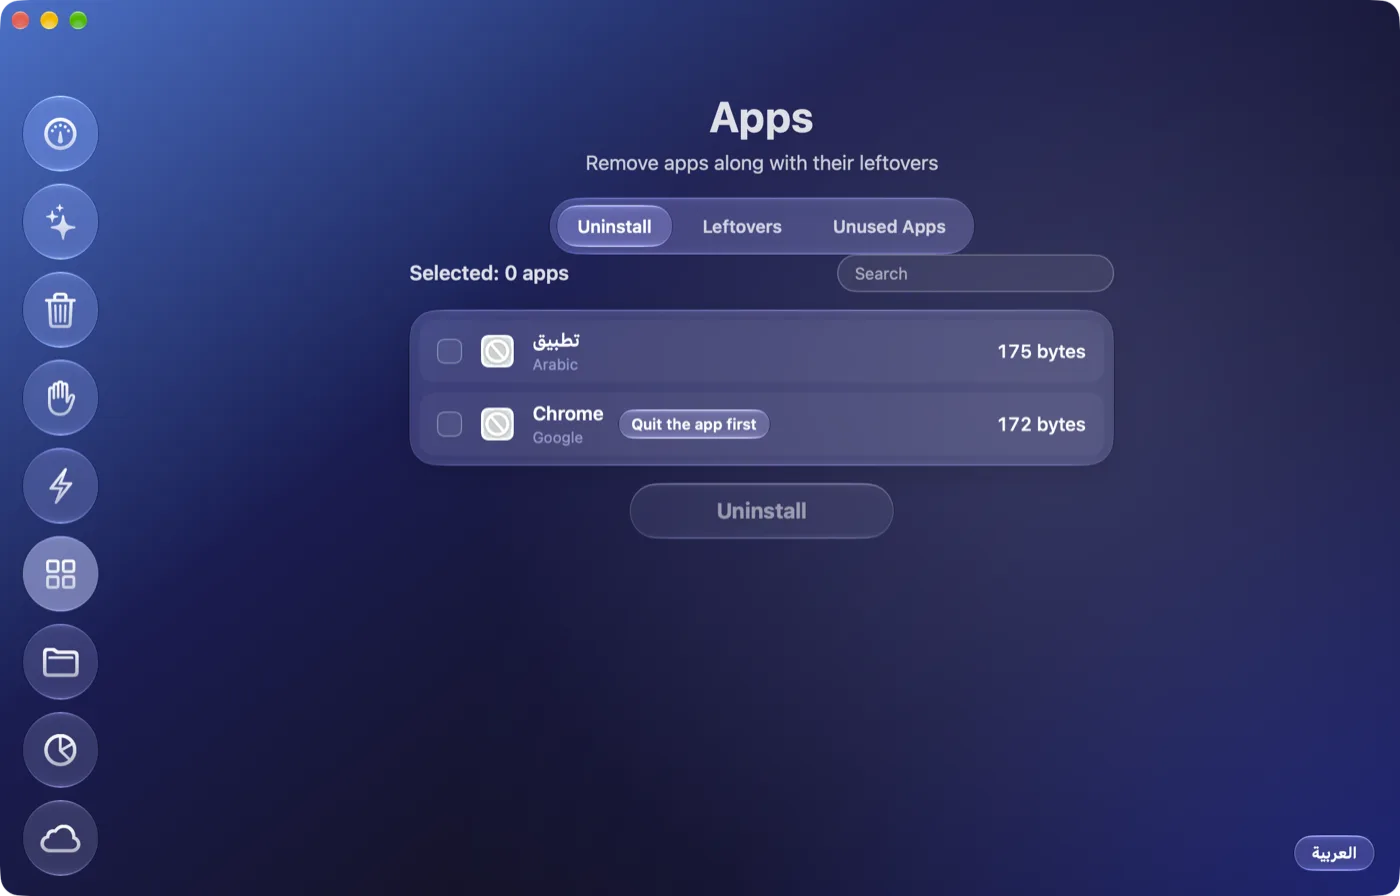
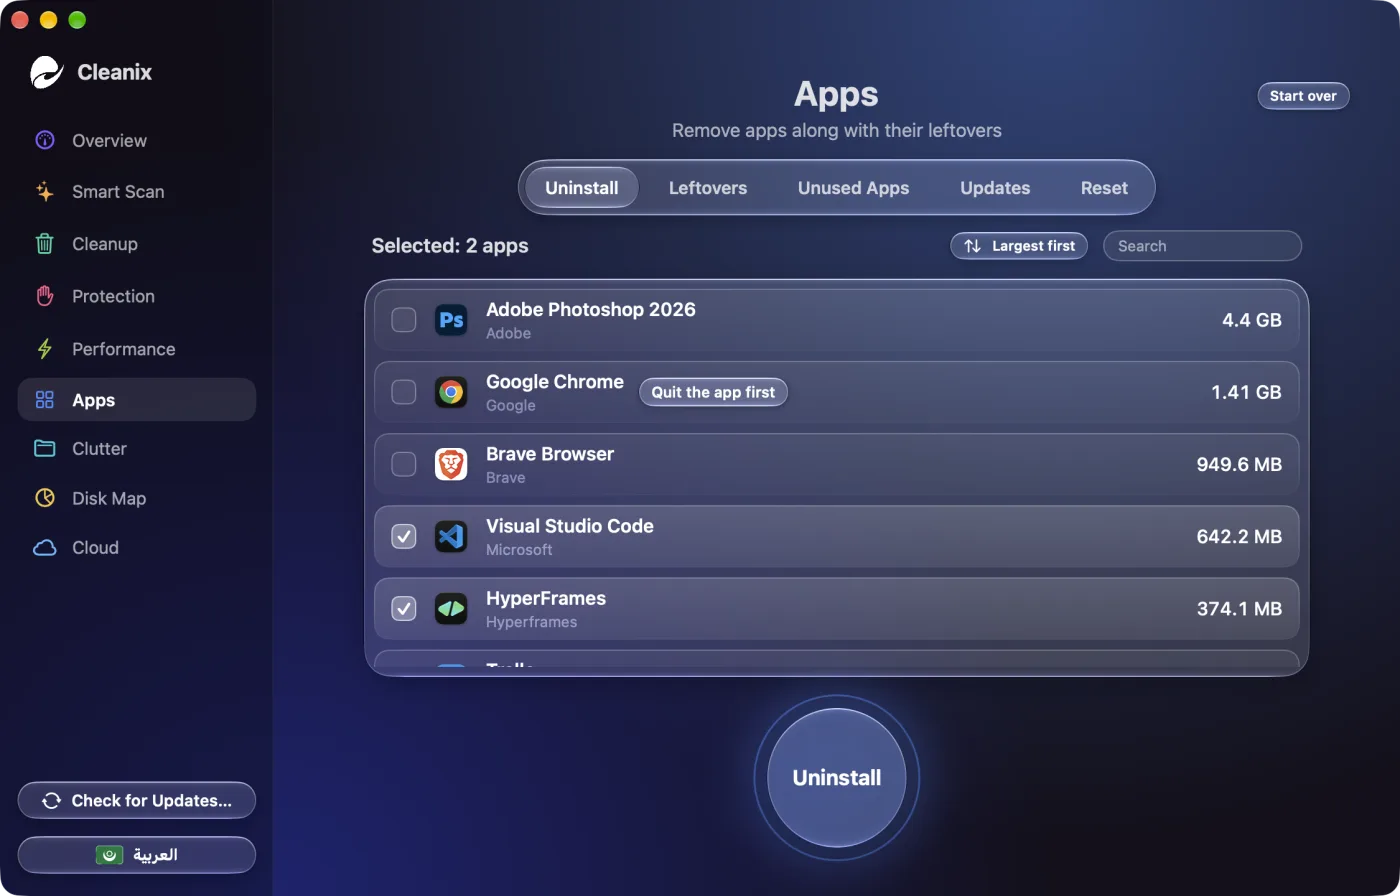
Website: Mac health and Quick Boost scenes, new features, new screenshots
- Scene 05: health score ring counting to 100 over the Overview screen.
- Scene 06: menu bar mock with live RAM/CPU and a Quick Boost run.
- Eight more items in "And also" and new ticker words.
- Screenshots retaken from the current design (sidebar with labels).
- Arabic headings kept their spaces: the space now lives inside each
  split word, since Chrome dropped most spaces between inline-blocks.

diff --git a/site/index.html b/site/index.html
@@ -26,7 +26,16 @@
 <link rel="preconnect" href="https://fonts.googleapis.com">
 <link rel="preconnect" href="https://fonts.gstatic.com" crossorigin>
 <link href="https://fonts.googleapis.com/css2?family=Readex+Pro:wght@300;400;500;600;700&display=swap" rel="stylesheet">
-<link rel="stylesheet" href="style.css?v=9">
+<link rel="stylesheet" href="style.css?v=11">
+<noscript><style>
+  .mess, .scene, .safety { height: auto; }
+  .scene + .scene { margin-top: 0; }
+  .mess-pin, .scene-pin, .safety-pin { position: relative; height: auto; min-height: 100vh; }
+  .scene-pin, .safety-pin { padding-block: 120px; }
+  .junk, .vortex, .counter, .scroll-hint, .t-after, .orb, .ring, .ticker { display: none; }
+  .screen { clip-path: none; }
+  .screen img, .undo { opacity: 1; }
+</style></noscript>
 </head>
 <body>
 <a class="skip" href="#main"><span data-ar>انتقل للمحتوى</span><span data-en>Skip to content</span></a>
@@ -154,6 +163,54 @@
         </div>
       </div>
     </section>
+
+    <section class="scene" data-scene="health" style="--c1:#3DDC97;--c2:#0E6B4A" aria-labelledby="h-health">
+      <div class="scene-pin">
+        <div class="scene-copy">
+          <p class="scene-no">05</p>
+          <h2 id="h-health" class="split"><span data-ar>اعرف حالة جهازك في نظرة.</span><span data-en>Your Mac's health at a glance.</span></h2>
+          <p><span data-ar>رقم من 100 بيقولك جهازك عامل إيه: المساحة، الرام، البرامج اللي بتفتح مع التشغيل، والكراكيب. ومعاه صحة البطارية وعدد مرات الشحن.</span><span data-en>One score out of 100 tells you how your Mac is doing: free space, memory, login items and junk. Plus battery health and charge cycles.</span></p>
+        </div>
+        <div class="stage">
+          <div class="screen"><img data-ar src="shots/ar-health.webp" alt="شاشة نظرة عامة وحالة الماك" loading="lazy" decoding="async" width="1400" height="896"><img data-en src="shots/en-health.webp" alt="The Overview screen with the Mac health score" loading="lazy" decoding="async" width="1400" height="896"></div>
+          <div class="orb"><svg viewBox="0 0 48 48" aria-hidden="true"><path d="M24 39 10 25c-10-10 4-22 14-11 10-11 24 1 14 11Z"/><path d="M12 26h6l3-6 4 10 3-4h8"/></svg></div>
+          <svg class="ring health-ring" viewBox="-60 -60 120 120" aria-hidden="true">
+            <circle class="health-track" r="50"/>
+            <circle class="health-progress" r="50" pathLength="100" stroke-dasharray="100" stroke-dashoffset="100" transform="rotate(-90)"/>
+            <text text-anchor="middle" y="11">0</text>
+          </svg>
+        </div>
+      </div>
+    </section>
+
+    <section class="scene" data-scene="menubar" style="--c1:#9B7BFF;--c2:#3A2A8C" aria-labelledby="h-menubar">
+      <div class="scene-pin">
+        <div class="scene-copy">
+          <p class="scene-no">06</p>
+          <h2 id="h-menubar" class="split"><span data-ar>الرام والمعالج قدامك، وتسريع بضغطة.</span><span data-en>RAM and CPU in your menu bar. Boost in one click.</span></h2>
+          <p><span data-ar>أرقام الرام والمعالج في شريط المنيو طول الوقت. ولو الجهاز تقل، «تسريع فوري» بينضّف الملفات المؤقتة ويفضّي الرام، والباسورد بيتطلب مرة واحدة بس.</span><span data-en>Live RAM and CPU numbers in the menu bar. When things slow down, Quick Boost clears caches and frees memory, and it asks for your password only once.</span></p>
+        </div>
+        <div class="stage">
+          <div class="screen menubar-screen" aria-hidden="true">
+            <div class="menubar-strip">
+              <svg viewBox="0 0 48 48"><path d="M26 8c1.5 8 4.5 11 12 12.5C30.5 22 27.5 25 26 33c-1.5-8-4.5-11-12-12.5C21.5 19 24.5 16 26 8Z"/><path d="M13 28c.8 3.6 2.2 5 5.8 5.8-3.6.8-5 2.2-5.8 5.8-.8-3.6-2.2-5-5.8-5.8 3.6-.8 5-2.2 5.8-5.8Z"/></svg>
+              <span data-ar>الرام <span class="boost-ram">٧٨</span>٪ · المعالج <span class="boost-cpu">٤١</span>٪</span><span data-en>RAM <span class="boost-ram">78</span>% · CPU <span class="boost-cpu">41</span>%</span>
+            </div>
+            <div class="boost-panel">
+              <div class="boost-button"><span data-ar>تسريع فوري</span><span data-en>Quick Boost</span></div>
+              <div class="boost-metric"><span><span data-ar>المساحة الفاضية</span><span data-en>Free disk</span></span><span class="boost-track"><i class="boost-disk-bar"></i></span></div>
+              <div class="boost-metric"><span><span data-ar>الرام</span><span data-en>Memory</span></span><span class="boost-track"><i class="boost-memory-bar"></i></span></div>
+              <div class="boost-metric"><span><span data-ar>المعالج</span><span data-en>CPU</span></span><span class="boost-track"><i class="boost-cpu-bar"></i></span></div>
+              <div class="boost-status">
+                <p class="boost-confirm"><span data-ar>نفضّي الرام وننضّف ٣١٢ م.ب من الملفات المؤقتة؟</span><span data-en>Free memory and clean 312 MB of caches?</span></p>
+                <p class="boost-result"><span data-ar>اتفضّى ٣١٢ م.ب · الرام من ٧٨٪ لـ ٦١٪</span><span data-en>Freed 312 MB · memory 78% → 61%</span></p>
+              </div>
+            </div>
+          </div>
+          <div class="orb"><svg viewBox="0 0 48 48" aria-hidden="true"><path d="M26 8 12 27h11l-1 13 14-19H25Z"/></svg></div>
+        </div>
+      </div>
+    </section>
   </div>
 
   <!-- 3. Everything else, as a running strip. -->
@@ -167,6 +224,14 @@
       <li><b><span data-ar>السحابة</span><span data-en>Cloud</span></b><span data-ar>فضّي نسخ iCloud المحلية.</span><span data-en>Free local iCloud copies.</span></li>
       <li><b><span data-ar>المرفقات</span><span data-en>Mail attachments</span></b><span data-ar>مرفقات البريد اللي اتنزلت.</span><span data-en>Downloaded mail attachments.</span></li>
       <li><b><span data-ar>تحديثات لوحدها</span><span data-en>Auto updates</span></b><span data-ar>موقّعة، وبيسألك الأول.</span><span data-en>Signed, and it asks first.</span></li>
+      <li><b><span data-ar>التطبيقات التقيلة</span><span data-en>Heavy apps</span></b><span data-ar>شوف مين واكل الرام والمعالج واقفله.</span><span data-en>See what is eating memory and CPU, and quit it.</span></li>
+      <li><b><span data-ar>إضافات المتصفح</span><span data-en>Browser extensions</span></b><span data-ar>كل الإضافات في كروم وبريف وإيدج وسفاري.</span><span data-en>Every extension in Chrome, Brave, Edge and Safari.</span></li>
+      <li><b><span data-ar>تحديثات البرامج</span><span data-en>App updates</span></b><span data-ar>يقولك أنهي برامج ليها نسخة جديدة.</span><span data-en>Tells you which apps have a new version.</span></li>
+      <li><b><span data-ar>ريسيت لبرنامج</span><span data-en>Reset an app</span></b><span data-ar>امسح إعدادات وكاش برنامج واحد.</span><span data-en>Clear one app's settings and cache.</span></li>
+      <li><b><span data-ar>الآيفون والآيباد</span><span data-en>iPhone and iPad</span></b><span data-ar>نسخ احتياطي قديمة وملفات تحديث iOS.</span><span data-en>Old backups and iOS update files.</span></li>
+      <li><b><span data-ar>للمطوّرين</span><span data-en>For developers</span></b><span data-ar>كاش Xcode والمحاكي وpip وYarn وCocoaPods.</span><span data-en>Xcode, Simulator, pip, Yarn and CocoaPods caches.</span></li>
+      <li><b><span data-ar>التنبيهات</span><span data-en>Alerts</span></b><span data-ar>لما المساحة تقل، وتذكير أسبوعي. مقفولة لحد ما تفتحها.</span><span data-en>Low space and a weekly reminder. Off until you turn them on.</span></li>
+      <li><b><span data-ar>يفتح مع الجهاز</span><span data-en>Open at login</span></b><span data-ar>يشتغل في شريط المنيو من غير ما يفتح شباك.</span><span data-en>Starts quietly in the menu bar.</span></li>
     </ul>
   </section>
 
@@ -230,6 +295,6 @@
 </footer>
 
 <div class="cut" id="cut" aria-hidden="true"><i></i><i></i><i></i><i></i><i></i><i></i><i></i><i></i></div>
-<script type="module" src="main.js?v=7"></script>
+<script type="module" src="main.js?v=9"></script>
 </body>
 </html>

diff --git a/site/main.js b/site/main.js
@@ -6,6 +6,7 @@ gsap.registerPlugin(ScrollTrigger);
 const $ = (s, r = document) => r.querySelector(s), $$ = (s, r = document) => [...r.querySelectorAll(s)];
 const motionOK = matchMedia('(prefers-reduced-motion: no-preference)').matches;
 const html = document.documentElement;
+const arabicDigits = new Intl.NumberFormat('ar-EG', { numberingSystem: 'arab' });
 
 /* Seeded noise (mulberry32): the junk lands in the same places on every visit. */
 function rng(seed) {
@@ -46,8 +47,8 @@ langBtn.addEventListener('click', () => {
 
 /* ---------- ticker words follow the language ---------- */
 const TICK = {
-  ar: [['فحص شامل', 'كاش', 'بقايا برامج', 'صور متشابهة', 'سلة المهملات'], ['خريطة القرص', 'الفرّامة', 'المكرر', 'التنزيلات', 'الخصوصية']],
-  en: [['Smart Scan', 'Caches', 'Leftovers', 'Similar photos', 'Trash'], ['Disk Map', 'Shredder', 'Duplicates', 'Downloads', 'Privacy']],
+  ar: [['فحص شامل', 'كاش', 'بقايا برامج', 'صور متشابهة', 'سلة المهملات', 'تسريع فوري', 'حالة الماك'], ['خريطة القرص', 'الفرّامة', 'المكرر', 'التنزيلات', 'الخصوصية', 'إضافات المتصفح', 'التطبيقات التقيلة']],
+  en: [['Smart Scan', 'Caches', 'Leftovers', 'Similar photos', 'Trash', 'Quick Boost', 'Mac health'], ['Disk Map', 'Shredder', 'Duplicates', 'Downloads', 'Privacy', 'Extensions', 'Heavy apps']],
 };
 function fillTicker() {
   const set = TICK[html.lang === 'en' ? 'en' : 'ar'];
@@ -177,7 +178,9 @@ function buildMess() {
 /* ---------- 2. scenes ---------- */
 function splitWords(h) {
   $$('span[data-ar], span[data-en]', h).forEach(s => {
-    s.innerHTML = s.textContent.trim().split(/\s+/).map(w => `<span class="w">${w}</span>`).join(' ');
+    // The space lives inside each word: between inline-blocks Chrome drops most spaces in Arabic.
+    const words = s.textContent.trim().split(/\s+/);
+    s.innerHTML = words.map((w, i) => `<span class="w">${w}${i < words.length - 1 ? ' ' : ''}</span>`).join('');
   });
 }
 function buildScene(sec) {
@@ -194,8 +197,8 @@ function buildScene(sec) {
     // the icon opens into the real screen
     .to(screen, { clipPath: 'circle(80% at 50% 50%)', duration: 0.2, ease: 'power3.inOut' }, 0.3)
     .to(orb, { scale: 3.2, opacity: 0, duration: 0.18, ease: 'power2.in' }, 0.3)
-    .to(imgs, { opacity: 1, duration: 0.1 }, 0.4)
     .fromTo(stage, { y: 60 }, { y: -30, duration: 1, ease: 'none' }, 0);
+  if (imgs.length) tl.to(imgs, { opacity: 1, duration: 0.1 }, 0.4);
 
   const kind = sec.dataset.scene;
   if (kind === 'scan') {
@@ -243,6 +246,44 @@ function buildScene(sec) {
     tl.fromTo(arcs, { opacity: 0, scale: 0.3, rotation: -200, svgOrigin: '0 0' },
       { opacity: 1, scale: 1, rotation: 0, svgOrigin: '0 0', duration: 0.18, ease: 'back.out(1.4)', stagger: 0.02 }, 0.5)
       .to(arcs, { scale: i => 1.3 + i * 0.12, opacity: 0, rotation: i => (i % 2 ? 60 : -60), svgOrigin: '0 0', duration: 0.16, ease: 'power2.in', stagger: 0.01 }, 0.78);
+  }
+  if (kind === 'health') {
+    const ring = $('.health-ring', sec), arc = $('.health-progress', ring), score = $('text', ring);
+    const health = { value: 0 };
+    tl.to(ring, { opacity: 1, duration: 0.04 }, 0.5)
+      .to(health, {
+        value: 100, duration: 0.24, ease: 'none',
+        onUpdate() {
+          const value = Math.round(health.value);
+          arc.setAttribute('stroke-dashoffset', 100 - health.value);
+          score.textContent = html.lang === 'ar' ? arabicDigits.format(value) : String(value);
+        },
+      }, 0.5)
+      .to(ring, { scale: 1.25, opacity: 0, duration: 0.1, ease: 'power2.in' }, 0.74);
+  }
+  if (kind === 'menubar') {
+    const button = $('.boost-button', sec), confirm = $('.boost-confirm', sec), result = $('.boost-result', sec);
+    const ramAr = $('[data-ar] .boost-ram', sec), ramEn = $('[data-en] .boost-ram', sec);
+    const cpuAr = $('[data-ar] .boost-cpu', sec), cpuEn = $('[data-en] .boost-cpu', sec);
+    const memoryBar = $('.boost-memory-bar', sec), cpuBar = $('.boost-cpu-bar', sec);
+    const usage = { ram: 78, cpu: 41 };
+    tl.to(button, { scale: 0.92, duration: 0.035, ease: 'power2.in' }, 0.5)
+      .to(button, { scale: 1, duration: 0.055, ease: 'power2.out' }, 0.535)
+      .to(confirm, { opacity: 1, duration: 0.04 }, 0.57)
+      .to(confirm, { opacity: 0, duration: 0.04 }, 0.67)
+      .to(result, { opacity: 1, duration: 0.05 }, 0.71)
+      .to(usage, {
+        ram: 61, cpu: 12, duration: 0.13, ease: 'none',
+        onUpdate() {
+          const ram = Math.round(usage.ram), cpu = Math.round(usage.cpu);
+          ramAr.textContent = arabicDigits.format(ram);
+          cpuAr.textContent = arabicDigits.format(cpu);
+          ramEn.textContent = String(ram);
+          cpuEn.textContent = String(cpu);
+          memoryBar.style.width = `${usage.ram}%`;
+          cpuBar.style.width = `${usage.cpu}%`;
+        },
+      }, 0.71);
   }
   tl.to(stage, { scale: 0.9, opacity: 0.3, rotationX: 12, transformPerspective: 900, duration: 0.1 }, 0.88)
     .to($('.scene-copy', sec), { opacity: 0, y: -30, duration: 0.08 }, 0.88);

diff --git a/site/style.css b/site/style.css
@@ -140,7 +140,7 @@ html[lang="en"] img[data-en], html[lang="en"] div[data-en] { display: block !imp
 .scene-copy { position: relative; z-index: 3; }
 .scene-no { font-size: 15px; font-weight: 600; color: var(--c1); margin-bottom: 14px; }
 .scene-copy h2 { font-size: clamp(30px, 4.2vw, 60px); line-height: 1.1; font-weight: 700; }
-.scene-copy h2 .w { display: inline-block; }
+.scene-copy h2 .w { display: inline-block; white-space: pre; }
 .scene-copy p:last-child { margin-top: 20px; color: var(--muted); font-size: 17px; max-width: 40ch; }
 
 .stage { position: relative; aspect-ratio: 1112 / 712; width: 100%; max-width: 900px; justify-self: center; }
@@ -167,6 +167,42 @@ html[lang="en"] img[data-en], html[lang="en"] div[data-en] { display: block !imp
 }
 .ring { position: absolute; left: 50%; top: 50%; width: 70%; translate: -50% -50%; z-index: 3; overflow: visible; pointer-events: none; }
 .ring circle { fill: none; stroke-width: 9; }
+.health-ring { width: min(62%, 360px); opacity: 0; }
+.health-ring .health-track { fill: rgba(15, 11, 23, 0.88); stroke: var(--line); }
+.health-progress { stroke: var(--c1); }
+.health-ring text { fill: var(--white); font-size: 31px; font-weight: 700; font-variant-numeric: tabular-nums; }
+
+[data-scene="menubar"] .stage { min-height: 216px; }
+.menubar-screen { display: grid; grid-template-rows: auto 1fr; background: var(--ink); border: 1px solid var(--line); container-type: size; }
+.menubar-strip {
+  display: flex; justify-content: flex-end; align-items: center; gap: 6px; padding: clamp(5px, 0.9cqw, 9px) clamp(12px, 2cqw, 20px);
+  background: var(--charcoal); border-bottom: 1px solid var(--line);
+  color: var(--lavender); font-size: clamp(12px, 1.7cqw, 16px); font-variant-numeric: tabular-nums;
+}
+.menubar-strip svg { width: clamp(17px, 2.2cqw, 22px); fill: none; stroke: var(--c1); stroke-width: 3; stroke-linejoin: round; }
+.boost-panel {
+  place-self: center; width: min(48cqw, calc(100% - 24px)); min-width: min(300px, calc(100% - 24px)); display: grid;
+  gap: clamp(7px, 1.4cqw, 14px); padding: clamp(10px, 2cqw, 20px) clamp(14px, 2.4cqw, 24px);
+  border: 1px solid var(--line); border-radius: clamp(12px, 1.8cqw, 18px); background: var(--charcoal);
+}
+.boost-button {
+  padding: clamp(7px, 1.2cqw, 12px) 12px; border-radius: clamp(8px, 1.2cqw, 12px); background: var(--violet); color: var(--white);
+  text-align: center; font-size: clamp(15px, 2.2cqw, 20px); font-weight: 600; line-height: 1.35;
+}
+.boost-metric {
+  display: grid; grid-template-columns: minmax(86px, auto) 1fr; align-items: center; gap: 10px;
+  color: var(--muted); font-size: clamp(11px, 1.6cqw, 15px); line-height: 1.35;
+}
+.boost-track, .boost-track i { display: block; height: clamp(5px, 0.8cqw, 8px); border-radius: 5px; }
+.boost-track { background: var(--line); }
+.boost-track i { background: var(--c1); }
+.boost-disk-bar { width: 56%; }
+.boost-memory-bar { width: 78%; }
+.boost-cpu-bar { width: 41%; }
+.boost-status { display: grid; text-align: center; font-size: clamp(11px, 1.6cqw, 15px); line-height: 1.35; }
+.boost-status p { grid-area: 1 / 1; opacity: 0; }
+.boost-confirm { color: var(--muted); }
+.boost-result { color: var(--lavender); }
 
 /* ---------- 3. more ---------- */
 .more { padding: 120px 0; overflow: hidden; }
